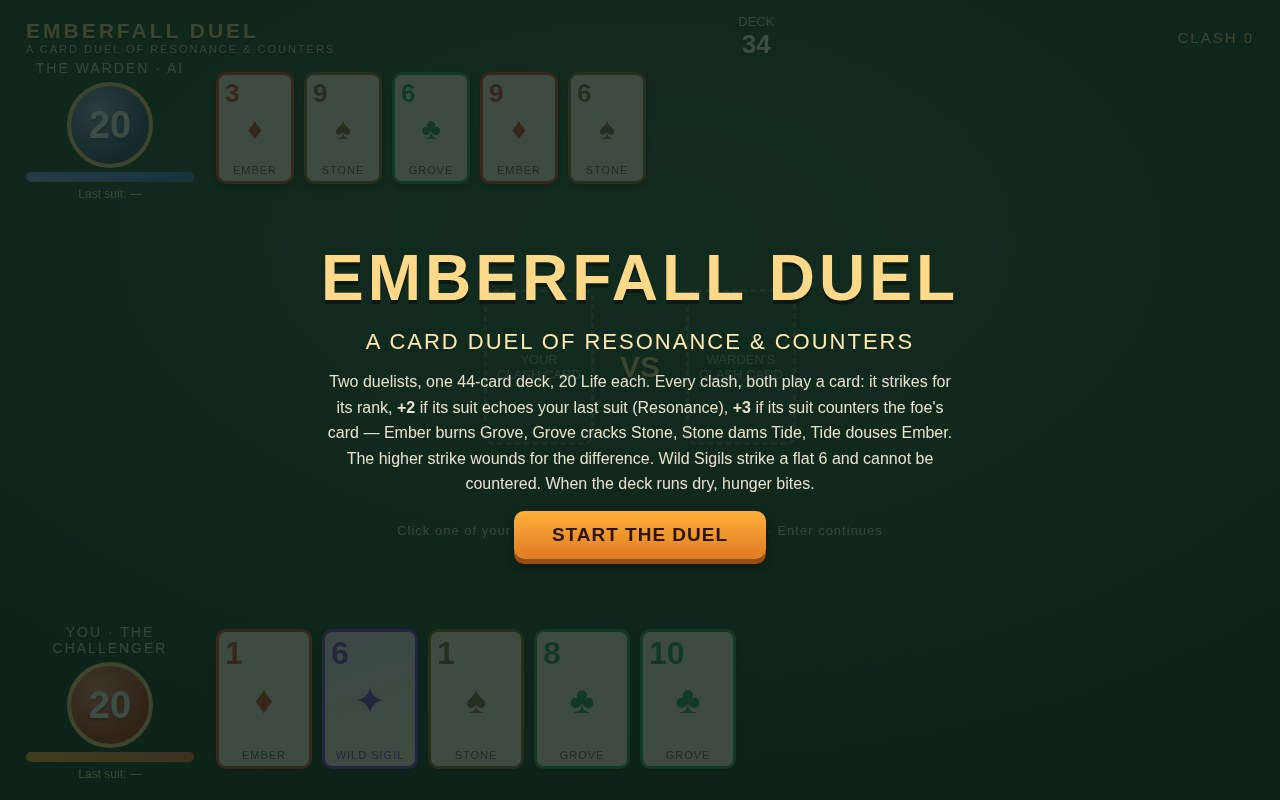
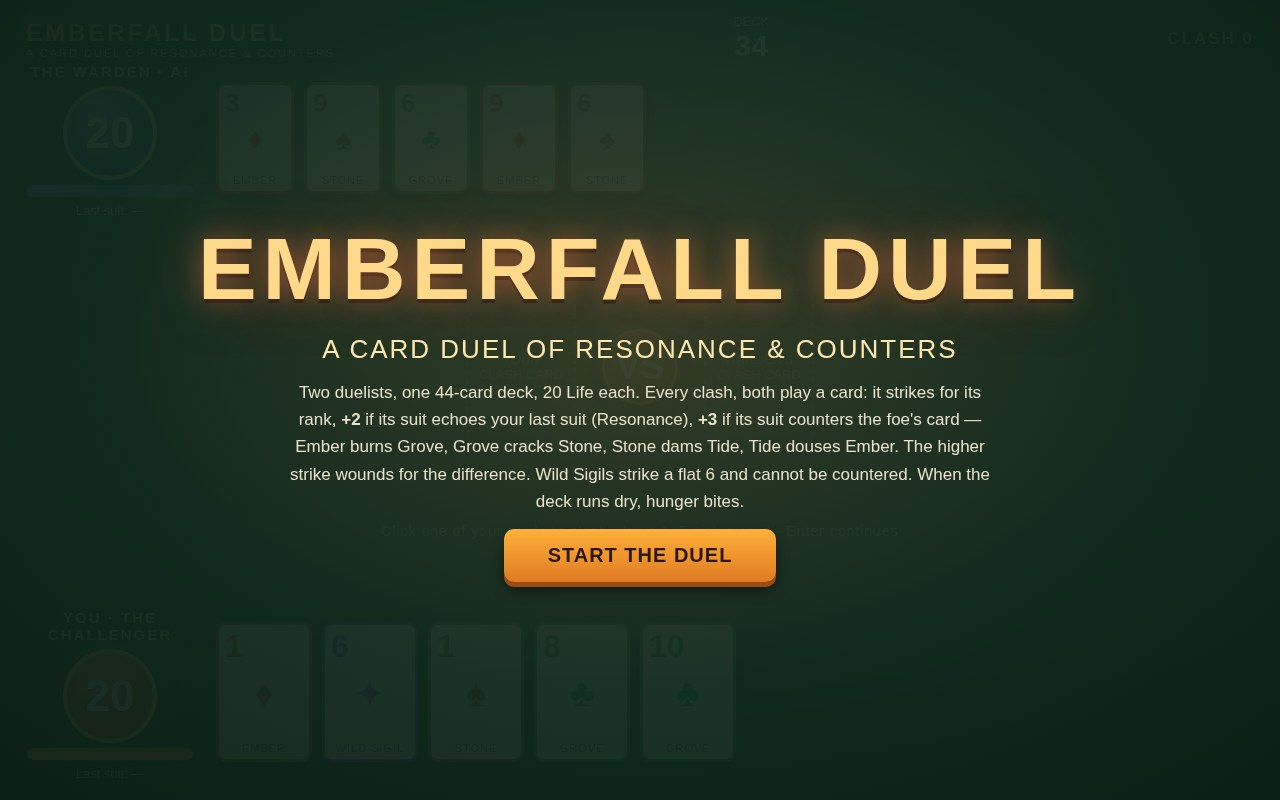
Screenshot polish: richer staged in-play frame, stronger title/end cards
Presentation only — no gameplay changes (engine.js untouched):
- CSS: ember-glow backdrop, larger glowing life orbs and lifebars,
  badge-style VS medallion, larger high-contrast clash banner,
  88px glowing overlay headlines, win/lose tinted end titles.
- Staging: the in-play shot now searches seeds for a genuine mid-game
  frame (real rules, autopilot picks) whose last clash fires Resonance
  and Counter together — seed 45, clash 7: Ember 10 strikes 15
  (10 + 2 resonance + 3 counter), You 12 Life vs Warden 7.
- All four screenshots re-rendered at 1280x800 from the game's own code.

Changed region(s): [[0.0312, 0.0625, 0.8438, 0.75], [0.0, 0.7812, 0.5938, 0.9688], [0.0312, 0.0312, 0.1875, 0.0625]]

diff --git a/game/index.html b/game/index.html
@@ -10,7 +10,8 @@
   body {
     font-family: "Avenir Next", "Segoe UI", Verdana, sans-serif;
     background:
-      radial-gradient(1200px 700px at 50% 30%, #2c5d46 0%, #1d4433 55%, #122b20 100%);
+      radial-gradient(760px 460px at 50% 52%, #b3541e38 0%, #b3541e00 70%),
+      radial-gradient(1200px 700px at 50% 30%, #2f6a4e 0%, #1d4433 55%, #0c2117 100%);
     color: #f5efe0;
     overflow: hidden;
     user-select: none;
@@ -19,27 +20,28 @@
 
   /* ---------- top strip ---------- */
   #topbar { display: flex; align-items: center; justify-content: space-between; }
-  #brand { font-size: 21px; letter-spacing: 3px; font-weight: 700; color: #ffd98a; text-shadow: 0 2px 0 #00000055; }
+  #brand { font-size: 24px; letter-spacing: 3px; font-weight: 700; color: #ffd98a; text-shadow: 0 2px 0 #00000055, 0 0 14px #ffb03a3d; }
   #brand small { display: block; font-size: 11px; letter-spacing: 2px; color: #cfe3d2; font-weight: 400; }
   #deckbox { text-align: center; font-size: 13px; color: #cfe3d2; }
-  #deckbox b { display: block; font-size: 26px; color: #fff; }
-  #clashno { font-size: 15px; letter-spacing: 2px; color: #ffd98a; }
+  #deckbox b { display: block; font-size: 30px; color: #fff; }
+  #clashno { font-size: 17px; font-weight: 700; letter-spacing: 2px; color: #ffd98a; }
 
   /* ---------- duelist zones ---------- */
   .zone { display: flex; align-items: center; gap: 22px; }
   .plate { width: 168px; text-align: center; flex: none; }
-  .plate .who { font-size: 14px; letter-spacing: 2px; color: #cfe3d2; }
+  .plate .who { font-size: 15px; font-weight: 700; letter-spacing: 2px; color: #e6f2e7; }
   .plate .life {
-    margin: 6px auto 4px; width: 86px; height: 86px; border-radius: 50%;
+    margin: 6px auto 4px; width: 94px; height: 94px; border-radius: 50%;
     background: radial-gradient(circle at 35% 30%, #ff8a70, #c22e1c 70%);
     border: 4px solid #ffd98a; display: flex; align-items: center; justify-content: center;
-    font-size: 38px; font-weight: 800; color: #fff; text-shadow: 0 2px 3px #00000066;
+    font-size: 44px; font-weight: 800; color: #fff; text-shadow: 0 2px 3px #00000066;
+    box-shadow: 0 0 24px #ff784766, 0 4px 10px #00000066;
   }
-  .plate.warden .life { background: radial-gradient(circle at 35% 30%, #9db4d8, #33507e 70%); }
-  .plate .lifebar { height: 10px; border-radius: 5px; background: #00000055; overflow: hidden; }
+  .plate.warden .life { background: radial-gradient(circle at 35% 30%, #9db4d8, #33507e 70%); box-shadow: 0 0 24px #4a7fd466, 0 4px 10px #00000066; }
+  .plate .lifebar { height: 14px; border-radius: 7px; background: #00000055; overflow: hidden; border: 1px solid #ffd98a44; }
   .plate .lifebar i { display: block; height: 100%; background: linear-gradient(90deg, #ffb03a, #ff7847); }
   .plate.warden .lifebar i { background: linear-gradient(90deg, #7fb0ff, #4a7fd4); }
-  .plate .lastsuit { margin-top: 5px; font-size: 12px; color: #ffe9b0; min-height: 15px; }
+  .plate .lastsuit { margin-top: 5px; font-size: 13px; color: #ffe9b0; min-height: 16px; }
   .hand { display: flex; gap: 10px; align-items: flex-start; min-height: 118px; }
   .zone.wardenzone { flex-direction: row; }
   .zone.youzone { margin-top: auto; }
@@ -65,8 +67,8 @@
   .youzone .card .rank { font-size: 32px; } .youzone .card .glyph { font-size: 38px; margin-top: 10px; }
   .youzone .card:hover { transform: translateY(-14px); }
   .youzone .card.picked { transform: translateY(-14px); outline: 4px solid #ffd98a; }
-  .card.slot { width: 110px; height: 156px; }
-  .card.slot .rank { font-size: 38px; } .card.slot .glyph { font-size: 46px; margin-top: 14px; }
+  .card.slot { width: 110px; height: 156px; box-shadow: 0 10px 26px #00000088, 0 0 20px #ffd98a30; }
+  .card.slot .rank { font-size: 42px; } .card.slot .glyph { font-size: 52px; margin-top: 14px; }
   .slotempty {
     width: 110px; height: 156px; border-radius: 10px; border: 3px dashed #ffffff44;
     display: flex; align-items: center; justify-content: center; color: #ffffff88; font-size: 13px; text-align: center; padding: 8px;
@@ -75,28 +77,40 @@
   /* ---------- arena ---------- */
   #arena { flex: 1; display: flex; flex-direction: column; align-items: center; justify-content: center; gap: 10px; }
   #clashrow { display: flex; align-items: center; gap: 26px; }
-  #vs { font-size: 30px; font-weight: 800; color: #ffd98a; text-shadow: 0 2px 0 #00000055; }
-  #banner {
-    min-height: 58px; max-width: 1060px; text-align: center; font-size: 19px; line-height: 1.45;
-    background: #00000038; border: 1px solid #ffd98a55; border-radius: 12px; padding: 9px 22px;
+  #vs {
+    width: 76px; height: 76px; flex: none; display: flex; align-items: center; justify-content: center;
+    font-size: 36px; font-weight: 800; color: #fff; border-radius: 50%;
+    background: radial-gradient(circle at 40% 32%, #ffb03a, #c2541a 78%);
+    border: 3px solid #ffd98a; text-shadow: 0 2px 3px #00000066;
+    box-shadow: 0 6px 16px #00000077, 0 0 22px #ff784755;
   }
-  #banner b { color: #ffd98a; }
-  #banner:empty { background: none; border-color: transparent; }
-  #hint { font-size: 13px; color: #cfe3d2; letter-spacing: 1px; }
+  #banner {
+    min-height: 58px; max-width: 1060px; text-align: center; font-size: 21px; line-height: 1.45;
+    background: #00000059; border: 1px solid #ffd98a88; border-radius: 12px; padding: 10px 24px;
+    box-shadow: 0 4px 14px #00000044;
+  }
+  #banner b { color: #ffd98a; text-shadow: 0 1px 2px #00000088; }
+  #banner:empty { background: none; border-color: transparent; box-shadow: none; }
+  #hint { font-size: 14px; color: #cfe3d2; letter-spacing: 1px; }
 
   /* ---------- overlays ---------- */
   .overlay {
-    position: fixed; inset: 0; background: #0d1f16cc; display: flex; flex-direction: column;
+    position: fixed; inset: 0; display: flex; flex-direction: column;
     align-items: center; justify-content: center; text-align: center; gap: 14px; z-index: 5;
+    background:
+      radial-gradient(820px 500px at 50% 42%, #b3541e30 0%, #b3541e00 70%),
+      radial-gradient(1200px 800px at 50% 40%, #143527f2 0%, #0a1a11f5 100%);
   }
-  .overlay h1 { font-size: 64px; margin: 0; letter-spacing: 4px; color: #ffd98a; text-shadow: 0 4px 0 #00000066; }
-  .overlay h2 { font-size: 22px; margin: 0; font-weight: 400; color: #ffe9b0; letter-spacing: 2px; }
-  .overlay p { max-width: 640px; font-size: 16px; line-height: 1.6; color: #e8e2cd; margin: 0; }
-  .overlay .big { font-size: 30px; color: #fff; }
+  .overlay h1 { font-size: 88px; margin: 0; letter-spacing: 6px; color: #ffd98a; text-shadow: 0 0 26px #ff784780, 0 0 64px #e2492f4d, 0 4px 0 #00000066; }
+  #endcard.won h1 { color: #ffe9a8; text-shadow: 0 0 26px #ffb03a85, 0 0 64px #e07b2452, 0 4px 0 #00000066; }
+  #endcard.lost h1 { color: #ff9a86; text-shadow: 0 0 26px #e2492f85, 0 0 64px #e2492f52, 0 4px 0 #00000066; }
+  .overlay h2 { font-size: 26px; margin: 0; font-weight: 400; color: #ffe9b0; letter-spacing: 2px; }
+  .overlay p { max-width: 700px; font-size: 17px; line-height: 1.6; color: #e8e2cd; margin: 0; }
+  .overlay .big { font-size: 36px; font-weight: 700; color: #fff; }
   button {
-    font: inherit; font-size: 19px; font-weight: 700; letter-spacing: 1px; cursor: pointer;
+    font: inherit; font-size: 20px; font-weight: 700; letter-spacing: 1px; cursor: pointer;
     background: linear-gradient(180deg, #ffb03a, #e07b24); color: #2b1503; border: none;
-    border-radius: 10px; padding: 13px 38px; box-shadow: 0 5px 0 #9a4d12, 0 8px 14px #00000077;
+    border-radius: 10px; padding: 15px 44px; box-shadow: 0 5px 0 #9a4d12, 0 8px 14px #00000077;
   }
   button:hover { filter: brightness(1.07); }
   .hidden { display: none !important; }

diff --git a/game/src/main.js b/game/src/main.js
@@ -89,6 +89,8 @@ function render() {
 function showEnd() {
   const title = duel.winner === 'you' ? 'VICTORY' : duel.winner === 'warden' ? 'DEFEAT' : 'ASHEN DRAW';
   $('endtitle').textContent = title;
+  $('endcard').classList.toggle('won', duel.winner === 'you');
+  $('endcard').classList.toggle('lost', duel.winner === 'warden');
   $('endscore').textContent = `You ${Math.max(0, duel.you.life)} Life — Warden ${Math.max(0, duel.warden.life)} Life · ${duel.clash} clashes`;
   $('endline').textContent =
     duel.winner === 'you'
@@ -126,6 +128,37 @@ function simulate(seed, pick) {
   return state;
 }
 
+/**
+ * Screenshot staging for the in-play frame: search seeds from `seed`
+ * upward for a genuine mid-game position — reached by playing the real
+ * rules forward with the autopilots — whose last clash shows the hero's
+ * card triggering Resonance and Counter together while the hero leads
+ * clearly. Falls back to the classic five-clash frame if none qualifies.
+ */
+function stagePlayDuel(seed) {
+  for (let s = seed; s < seed + 400; s += 1) {
+    const state = newDuel(s);
+    let result = null;
+    for (let i = 0; i < 14 && state.phase !== 'over'; i += 1) {
+      result = playClash(state, heroPick(state), wardenPick(state, state.rng));
+      const rich = state.phase === 'play'
+        && state.clash >= 7
+        && result.yours.resonance > 0
+        && result.yours.counter > 0
+        && result.dealt >= 3
+        && state.you.life - state.warden.life >= 5
+        && state.warden.life >= 4;
+      if (rich) return state;
+      if (state.clash >= 7 && state.warden.life <= 3) break; // hero too dominant; try the next seed
+    }
+  }
+  const state = newDuel(seed);
+  for (let i = 0; i < 5 && state.phase !== 'over'; i += 1) {
+    playClash(state, heroPick(state), wardenPick(state, state.rng));
+  }
+  return state;
+}
+
 function stage() {
   const params = new URLSearchParams(location.search);
   const shot = params.get('shot');
@@ -141,11 +174,8 @@ function stage() {
     return;
   }
   if (shot === 'play') {
-    duel = newDuel(seed);
-    lastResult = null;
-    for (let i = 0; i < 5 && duel.phase !== 'over'; i += 1) {
-      lastResult = playClash(duel, heroPick(duel), wardenPick(duel, duel.rng));
-    }
+    duel = stagePlayDuel(seed);
+    lastResult = duel.log[duel.log.length - 1] ?? null;
     render();
     return;
   }
